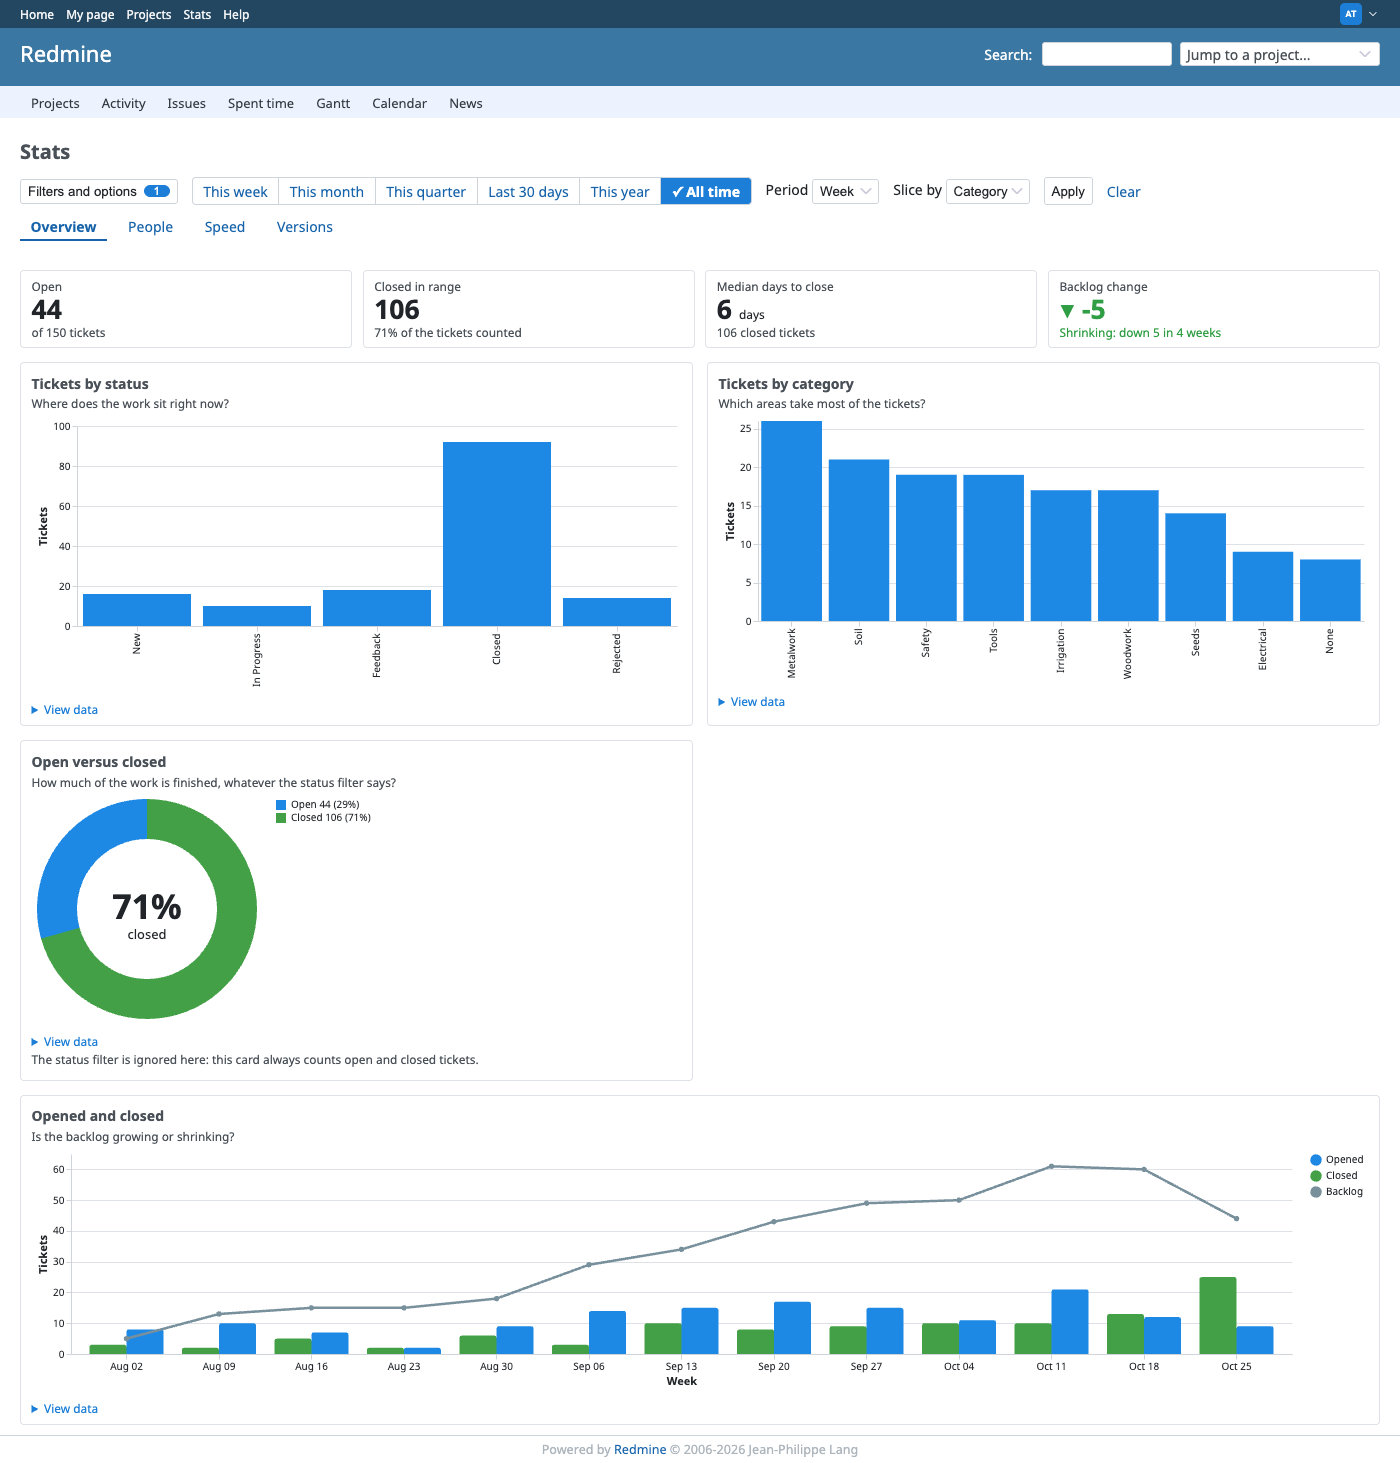
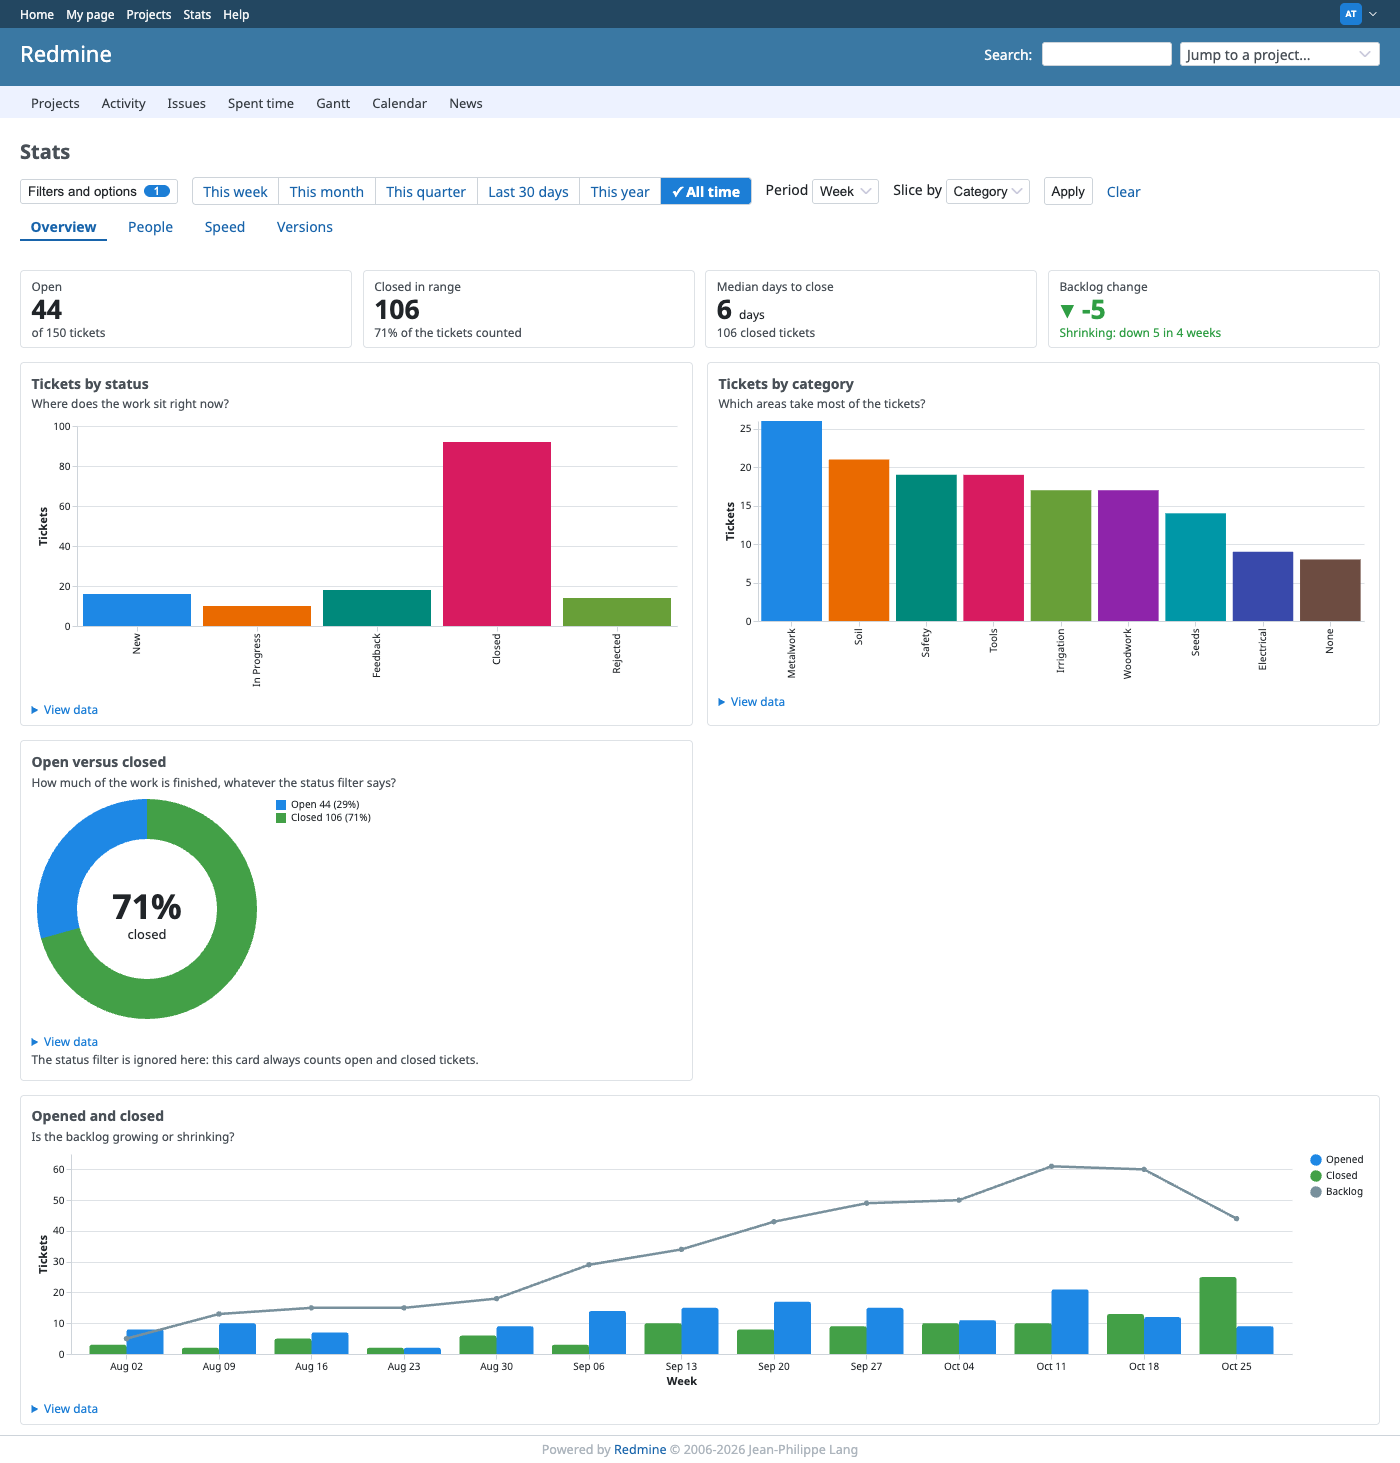
feat(charts): colour the status and category bars from the palette in order
Tickets by status and tickets by category draw each bar in its own palette colour,
wrapping after the last one, with no legend. Single-series charts keep the first colour.

refs #1657

Changed region(s): [[0.5836, 0.3076, 0.9829, 0.4306], [0.1229, 0.2768, 0.4914, 0.4306]]

diff --git a/test/integration/palette_settings_and_page_test.rb b/test/integration/palette_settings_and_page_test.rb
@@ -110,6 +110,28 @@ class PaletteSettingsAndPageTest < Redmine::IntegrationTest
     assert_equal %w[role:closed role:neutral], range
   end
 
+  def test_the_status_and_category_bars_are_coloured_by_their_own_label_in_order_with_no_legend
+    log_user("jsmith", "jsmith")
+    get "/projects/#{@project.identifier}/stats"
+
+    { "tickets_by_status" => "status", "tickets_by_slice" => "slice" }.each do |chart_name, field|
+      color = specification_of(chart_name).dig("encoding", "color")
+
+      assert_equal field, color["field"], chart_name
+      assert_equal({ "field" => "position" }, color["sort"], chart_name)
+      assert_nil color["legend"], chart_name
+      assert color.key?("legend"), "#{chart_name} must switch the legend off"
+    end
+  end
+
+  def test_the_time_to_close_histogram_and_the_median_line_keep_the_single_colour
+    log_user("jsmith", "jsmith")
+    get "/projects/#{@project.identifier}/stats", params: { tab: "speed" }
+
+    assert_nil specification_of("time_to_close_histogram").dig("encoding", "color")
+    assert_nil specification_of("median_time_to_close").dig("encoding", "color")
+  end
+
   def test_no_chart_specification_holds_a_hex_colour
     log_user("jsmith", "jsmith")
     %w[overview people speed versions].each do |tab|

diff --git a/app/models/rubylode_stats/charts/tickets_by_status.rb b/app/models/rubylode_stats/charts/tickets_by_status.rb
@@ -30,6 +30,7 @@ module RubylodeStats
           "encoding" => {
             "x" => { "field" => "status", "type" => "nominal", "sort" => { "field" => "position" }, "title" => nil },
             "y" => count_axis("tickets", largest_count(rows_with_links, "tickets")),
+            "color" => { "field" => "status", "type" => "nominal", "sort" => { "field" => "position" }, "legend" => nil },
             "opacity" => emphasis_opacity(with_legend: false),
             "href" => { "field" => "url", "type" => "nominal" },
             "tooltip" => [

diff --git a/app/models/rubylode_stats/charts/tickets_by_slice.rb b/app/models/rubylode_stats/charts/tickets_by_slice.rb
@@ -72,6 +72,7 @@ module RubylodeStats
         {
           "x" => { "field" => "slice", "type" => "nominal", "sort" => { "field" => "position" }, "title" => nil },
           "y" => count_axis("tickets", largest_count(rows_with_links, "tickets")),
+          "color" => { "field" => "slice", "type" => "nominal", "sort" => { "field" => "position" }, "legend" => nil },
           "opacity" => emphasis_opacity(with_legend: false),
           "href" => { "field" => "url", "type" => "nominal" },
           "tooltip" => tooltip

diff --git a/README.md b/README.md
@@ -146,9 +146,9 @@ preset under Administration, Plugins, Configure.
 | Data visualisation | Ten saturated categorical colours in the style of the wpdatatables palettes |
 | Custom | Up to ten hex colours of your own, and optional colours for open, closed and neutral |
 
-A single-series chart (tickets by status, tickets by category, time to close) is drawn in the first colour. A chart that
-colours by category (the donut by slice, closed per person) takes the colours in order and starts again after the last
-one. Open and closed use the same two colours in every chart: the open and closed donut, opened and closed per period, and
+A chart that groups by a category (tickets by status, tickets by category and its donut, closed per person) takes the
+colours in order and starts again after the last one. The bars of tickets by status and by category need no legend, as
+the axis names them. Charts with a single series (time to close, the median line) are drawn in the first colour. Open and closed use the same two colours in every chart: the open and closed donut, opened and closed per period, and
 done against remaining per version. The neutral colour draws remaining tickets and the backlog line. Every colour of the
 presets keeps a contrast of at least 3:1 against a white page in the light set and against a #1E1E1E page in the dark set.
 The test suite checks it. The light or dark set follows the system colour scheme, and the charts are drawn again when it changes.

diff --git a/CHANGELOG.md b/CHANGELOG.md
@@ -17,7 +17,7 @@ Better chart colours, set in the plugin settings.
 
 ### Changed
 
-- Single-series charts are drawn in the first colour of the palette, not near-black. The default palette is a ten colour Material set with a light and a dark variant. Every preset keeps 3:1 contrast against the page.
+- Tickets by status and by category colour each bar from the palette in order. Charts with a single series are drawn in the first colour of the palette, not near-black. The default palette is a ten colour Material set with a light and a dark variant. Every preset keeps 3:1 contrast against the page.
 - Open and closed use the same colours in every chart, and remaining tickets and the backlog line use the neutral colour.
 ## [1.1.1] - 2026-11-02
 
